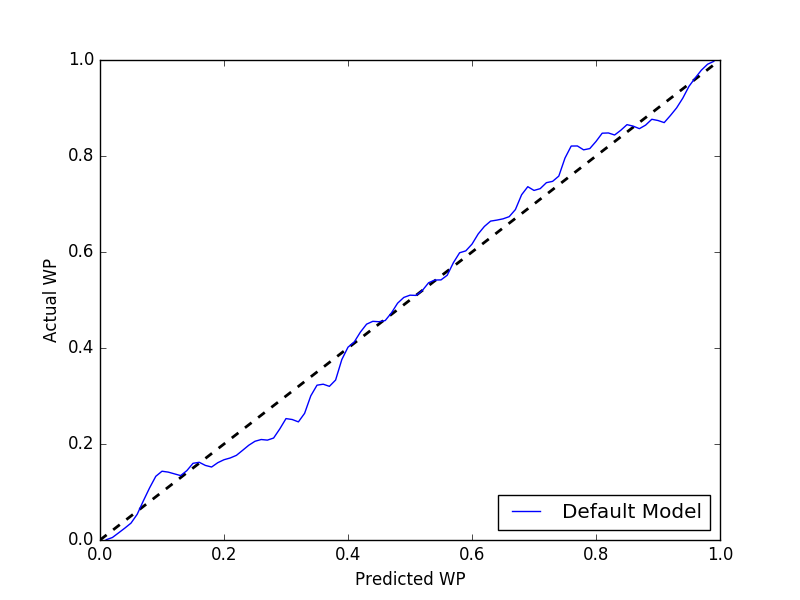
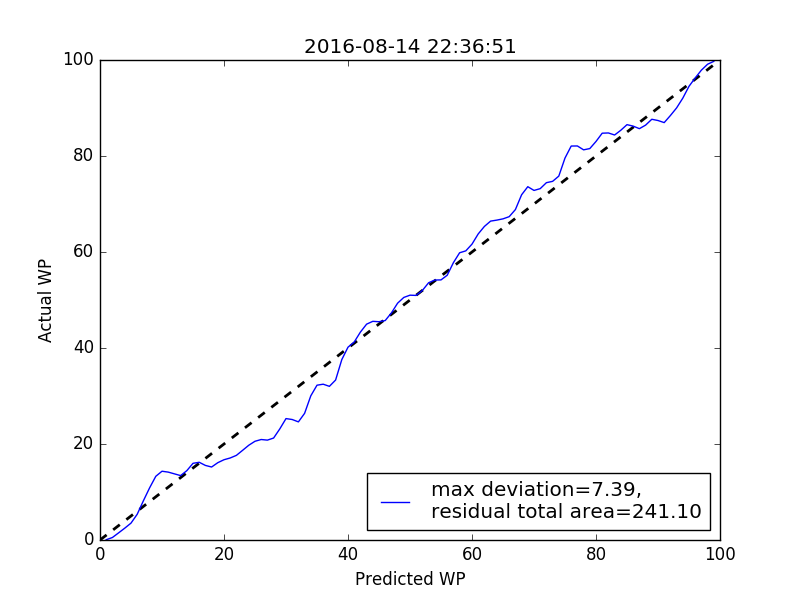
initial plotting functionality added to make_default_model

diff --git a/make_default_model.py b/make_default_model.py
@@ -1,7 +1,9 @@
 """A simple script to create, train, validate, and save the default model"""
 from __future__ import division, print_function
 
+import datetime as dt
 import time
+import os
 
 from nflwin import model
 
@@ -18,7 +20,16 @@ def main():
     
     win_probability_model.save_model()
 
+    ax = win_probability_model.plot_validation(label="max deviation={0:.2f}, \n"
+                                               "residual total area={1:.2f}"
+                                               "".format(max_deviation, residual_area))
+    curr_datetime = dt.datetime.now()
+    ax.set_title("model generated at: " + curr_datetime.strftime("%Y-%m-%d %H:%M:%S"))
+    ax.legend(loc="lower right")
 
+    this_filepath = os.path.dirname(os.path.abspath(__file__))
+    save_filepath = os.path.join(this_filepath, "doc", "source", "_static", "validation_plot.png")
+    ax.figure.savefig(save_filepath)
 
 
 if __name__ == "__main__":

diff --git a/doc/source/model.rst b/doc/source/model.rst
@@ -177,9 +177,8 @@ correctly. The ratio of these two KDEs is the actual WP measured
 from the test data set at a given *predicted* WP. While all of this is
 measured in :meth:`~nflwin.model.WPModel.validate_model`, you can plot
 it for yourself by calling the
-:meth:`~nflwin.model.WPModel.plot_validation` method:
-
-.. image:: _static/validation_plot.png
+:meth:`~nflwin.model.WPModel.plot_validation` method, which will
+generate a plot like that shown on the home page.
 
 From there NFLWin computes both the maximum deviation at any given
 percentage and the total area between the estimated WP from the model

diff --git a/doc/source/index.rst b/doc/source/index.rst
@@ -76,6 +76,11 @@ Once data is loaded, using the model to predict WP is easy:
   >>> standard_model.predict_wp(plays)
   array([ 0.58300397,  0.64321796,  0.18195466])
 
+Current Default Model
+---------------------
+
+.. image:: _static/validation_plot.png
+
 Why NFLWin?
 --------------
 Put simply, there are no other options: while WP models have been
